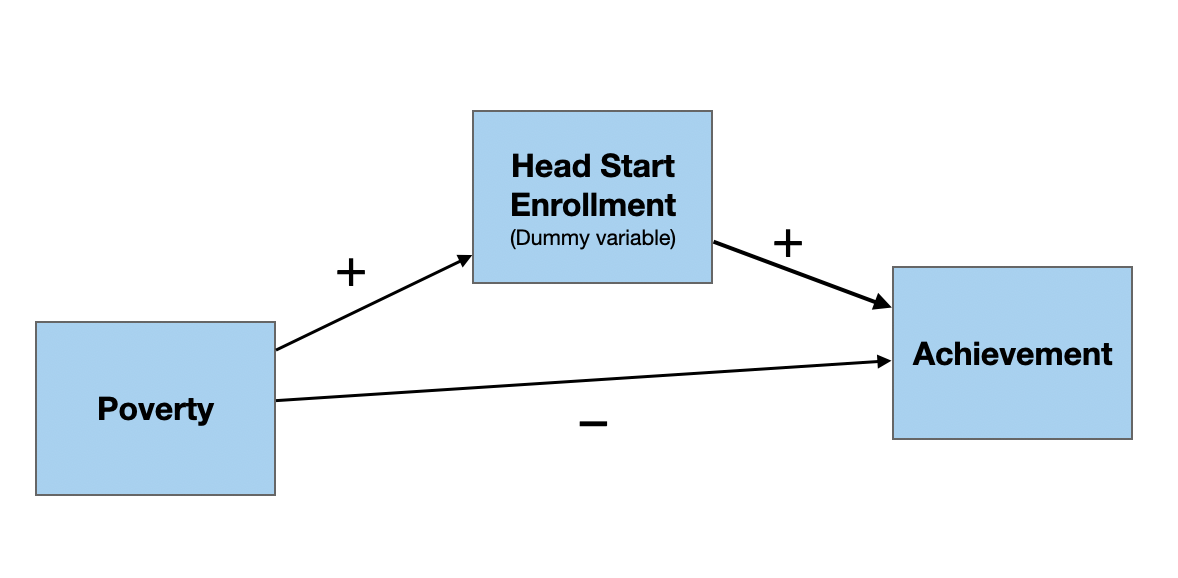
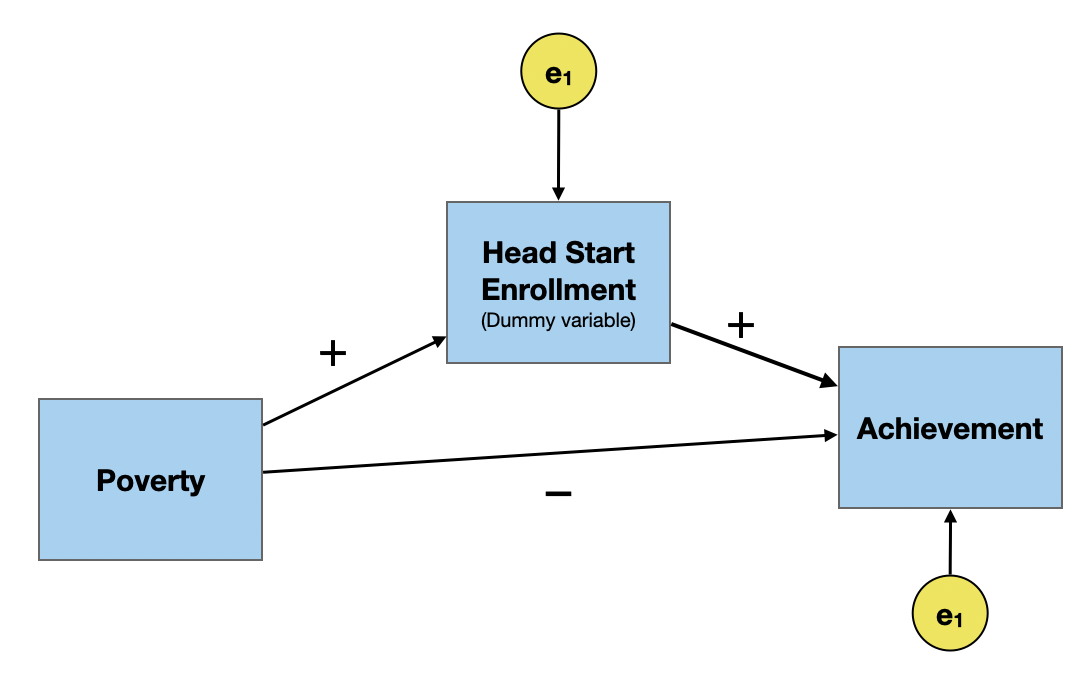
Updated path analysis notes

Changed region(s): [[0.0311, 0.0311, 0.9963, 0.9654], [0.4982, 0.6851, 0.5293, 0.7474]]

diff --git a/docs/notes/16-path-analysis.html b/docs/notes/16-path-analysis.html
@@ -9,7 +9,6 @@
 <link href="../site_libs/quarto-html/quarto-syntax-highlighting.css" rel="stylesheet" id="quarto-text-highlighting-styles"><meta charset="utf-8">
   <meta name="generator" content="quarto-1.2.258">
 
-  <meta name="dcterms.date" content="2022-11-30">
   <title>EPsy 8264 - 📝 Path Analysis</title>
   <meta name="apple-mobile-web-app-capable" content="yes">
   <meta name="apple-mobile-web-app-status-bar-style" content="black-translucent">
@@ -397,7 +396,7 @@
 <div class="quarto-title-authors">
 </div>
 
-  <p class="date">11/30/22</p>
+  <p class="date">12/1/22</p>
 </section>
 <section id="what-are-path-diagrams" class="slide level2">
 <h2>What are Path Diagrams?</h2>
@@ -484,6 +483,10 @@
 </ul></li>
 </ul>
 </section>
+<section id="reading-a-path-diagram-cntd." class="slide level2">
+<h2>Reading a Path Diagram (cntd.)</h2>
+
+<img data-src="../img/path-analysis-notes/10-symbols.png" style="width:100.0%" class="r-stretch quarto-figure-center"></section>
 <section id="two-example-path-diagrams" class="slide level2">
 <h2>Two Example Path Diagrams</h2>
 <div class="columns">
@@ -946,11 +949,13 @@ motivation ~ 0 + ability</code></pre>
 <h2>A Little More About Cause</h2>
 <p>What do we mean when we say “<em>X</em> causes <em>Y</em>”? Contrary to popular belief, we do not mean that changing <em>X</em> has a direct, and immediate change on <em>Y</em>. For example, it is now well known that smoking causes lung cancer.</p>
 
-<img data-src="../img/path-analysis-notes/09-smoking-cancer.png" style="width:100.0%" class="r-stretch quarto-figure-center"><p>But, not everyone who smokes ends up getting lung cancer.</p>
+<img data-src="../img/path-analysis-notes/09-smoking-cancer.png" style="width:60.0%" class="r-stretch quarto-figure-center"><p>But, not everyone who smokes ends up getting lung cancer.</p>
 </section>
 <section id="a-little-more-about-cause-cntd." class="slide level2">
 <h2>A Little More About Cause (cntd.)</h2>
-<p>Instead, cause is a probabilistic statement about the world. When we say smoking causes lung cancer what we mean, statistically, is that smoking increases the probability of developing lung cancer. Moreover, this increase probability is due to smoking, and not something else.</p>
+<p>Instead, cause is a probabilistic statement about the world. When we say smoking causes lung cancer what we mean, statistically, is that smoking increases the probability of developing lung cancer.</p>
+<p><br></p>
+<p>Moreover, this increased probability is due to smoking, and not something else.</p>
 </section>
 <section id="requirements-for-cause" class="slide level2">
 <h2>Requirements for Cause</h2>
@@ -963,9 +968,18 @@ motivation ~ 0 + ability</code></pre>
 </section>
 <section id="including-time-precedence-in-the-path-diagram" class="slide level2">
 <h2>Including Time Precedence in the Path Diagram</h2>
-<p>Time precedence is often reflected in the orientation of the model. Variables that occur earlier in time are oriented further to the left side of the diagram than variables that occur later. In the smoking example, to be considered the cause for lung cancer, smoking has to occur prior to the onset of lung cancer.</p>
-
-<img data-src="../img/path-analysis-notes/09-smoking-cancer.png" style="width:100.0%" class="r-stretch quarto-figure-center"></section>
+<p>Time precedence is often reflected in the orientation of the model. Variables that occur earlier in time are oriented further to the left side of the diagram than variables that occur later.</p>
+<div class="cell" data-layout-align="center">
+<div class="cell-output-display">
+<div class="quarto-figure quarto-figure-center">
+<figure>
+<p><img data-src="../img/path-analysis-notes/09-smoking-cancer.png" style="width:60.0%"></p>
+</figure>
+</div>
+</div>
+</div>
+<p>In the smoking example, to be considered the cause for lung cancer, smoking has to occur prior to the onset of lung cancer.<sup>1</sup></p>
+<aside><ol class="aside-footnotes"><li id="fn1"><p>Note that the top–bottom orientation typically doesn’t mean anything—it is just used for aesthetics in the layout.</p></li></ol></aside></section>
 <section id="including-time-precedence-in-the-path-diagram-cntd." class="slide level2">
 <h2>Including Time Precedence in the Path Diagram (cntd.)</h2>
 <p>In our path diagram relating academic ability and motivation to acheivement, academic ability is furthest to the left (it occurs earliest), followed by motivation, and then academic achievement.</p>
@@ -986,11 +1000,45 @@ motivation ~ 0 + ability</code></pre>
 <section id="common-cause-cntd.-1" class="slide level2">
 <h2>Common Cause (cntd.)</h2>
 <p>In order to meet the third causal requirement, we need to include ALL common causes in the model. This requirement is the hardest to prove.</p>
+</section>
+<section id="non-recursive-models" class="slide level2">
+<h2>Non-Recursive Models</h2>
+<p>In the path diagrams we have looked at so far, the causal paths have gone in only one direction; there is a distinct cause and effect. The error terms on the effect variables are also all uncorrelated. These are called <em>recursive models</em>. It is possible for variables to effect each other (e.g., predator–prey relationships), or for the error terms to be correlated. This is called a <em>non-recursive model</em>.</p>
+
+<img data-src="../img/path-analysis-notes/11-nonrecursive-model.png" style="width:100.0%" class="r-stretch quarto-figure-center"></section>
+<section id="under-identified-models" class="slide level2">
+<h2>Under-Identified Models</h2>
+<p>The problem with estimating the path coefficients in the non-recursive model is it is under-identified. In our predator–prey model, we need to estimate four path coefficients, but only have three correlations (equations) from which to do so. We can’t solve this without adding additional constraints!</p>
+<div class="columns">
+<div class="column" style="width:50%;">
+<div class="cell" data-layout-align="center">
+<div class="cell-output-display">
+<div class="quarto-figure quarto-figure-center">
+<figure>
+<p><img data-src="../img/path-analysis-notes/12-nonrecursive-model-paths.png" style="width:100.0%"></p>
+</figure>
+</div>
+</div>
+</div>
+</div><div class="column" style="width:50%;">
+<p><span class="math display">\[
+\begin{split}
+r_{\mathrm{H,W}} &amp;= p1 + p2(p4) \\[1em]
+r_{\mathrm{H,R}} &amp;= p2 + p1(p3) \\[1em]
+r_{\mathrm{H,W}} &amp;= p3 + p4 + p1(p2)
+\end{split}
+\]</span></p>
+</div>
+</div>
+</section>
+<section id="over-identified-models" class="slide level2">
+<h2>Over-Identified Models</h2>
 
 <div class="footer footer-default">
 
 </div>
 </section>
+
     </div>
   </div>
 

diff --git a/docs/schedule.html b/docs/schedule.html
@@ -600,19 +600,47 @@ Regression from Summary Measures
 <a class="my-link" href="notes/15-regression-from-summary-measures.html"><span class="fas fa-link"></span></a>
 </td>
 </tr>
-<!-- <tr> -->
-<!-- <td align="center" style="vertical-align:middle;">&nbsp;</td> -->
-<!-- <td>Dec. 06</td> -->
-<!-- <td align="center" style="vertical-align:middle;" rowspan="2"></td> -->
-<!-- <td style="vertical-align:middle;" rowspan="2">Path Analysis</td> -->
-<!-- <td align="center" style="vertical-align:middle;" rowspan="2"> -->
-<!--   <a class = "my-link" href="posts/2021-12-08-notes-path-models"><span class="fas fa-link"></span></a> -->
-<!-- </td> -->
-<!-- </tr> -->
-<!-- <tr> -->
-<!-- <td align="center" style="vertical-align:middle;">&nbsp;</td> -->
-<!-- <td>Dec. 08</td> -->
-<!-- </tr> -->
+<tr>
+<td align="center" style="vertical-align:middle;">
+&nbsp;
+</td>
+<td>
+Dec.&nbsp;06
+</td>
+<td align="center" style="vertical-align:middle;">
+</td>
+<td style="vertical-align:middle;">
+Path Analysis
+</td>
+<td align="center" style="vertical-align:middle;">
+<a class="my-link" href="notes/16-path-analysis.html"><span class="fas fa-link"></span></a>
+</td>
+</tr>
+<tr>
+<td align="center" style="vertical-align:middle;">
+&nbsp;
+</td>
+<td>
+Dec.&nbsp;08
+</td>
+<td align="center" style="vertical-align:middle;" rowspan="2">
+<!-- <a class="my-link" href="readings/13-cross-validation.html"><span class="fa fa-book"></span></a> -->
+</td>
+<td style="vertical-align:middle;" rowspan="2">
+Model Selection: Cross-Validation Methods
+</td>
+<td align="center" style="vertical-align:middle;" rowspan="2">
+<a class="my-link" href="notes/17-more-path-analysis.html"><span class="fas fa-link"></span></a>
+</td>
+</tr>
+<tr>
+<td align="center" style="vertical-align:middle;">
+&nbsp;
+</td>
+<td>
+Dec.&nbsp;13
+</td>
+</tr>
 <!-- <tr> -->
 <!-- <td align="center" style="vertical-align:middle;">&nbsp;</td> -->
 <!-- <td>Dec. 13</td> -->
